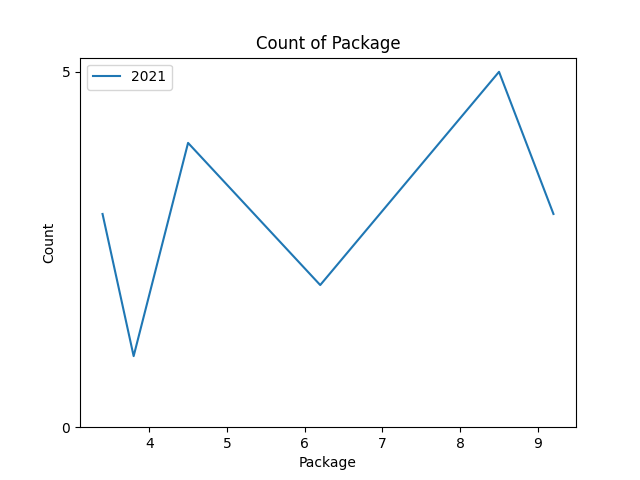
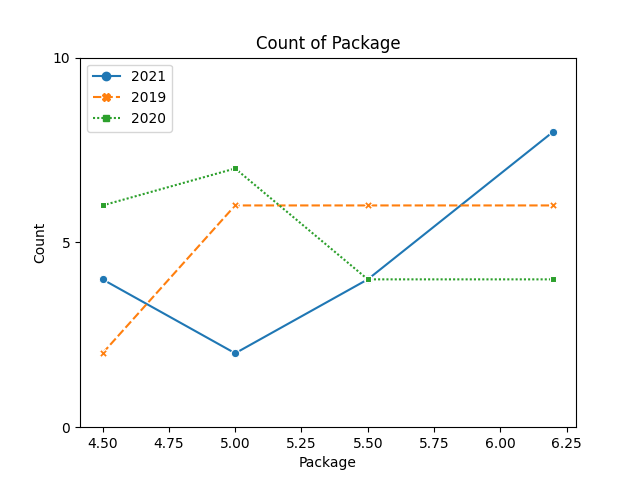
changed color variations seaborn

diff --git a/institute_analysis.py b/institute_analysis.py
@@ -69,7 +69,7 @@ class InstituteAnalysis(Screen):
         for i in my_cursor:
             dat.append([branch[i[0]],i[1]])
         df=pd.DataFrame(dat,columns=['branch','year'])
-        sns.countplot(x=df['branch'],hue=df['year'])
+        sns.countplot(x=df['branch'],hue=df['year'],palette='coolwarm')
         # plt.show()
         plt.savefig("Graphs//inst_1.png")
         plt.close('all')
@@ -120,11 +120,11 @@ class InstituteAnalysis(Screen):
             dat.append([i[0],i[1],branch[i[2]]])
         df=pd.DataFrame(dat,columns=['package','count','branch'])
 
-        sns.lineplot(x='package',y='count',hue = 'branch',data=df)
+        sns.lineplot(x='package',y='count',hue = 'branch',data=df,markers=True,style='branch')
         plt.title("Count of Package")
         plt.yticks(np.arange(max(df['count'])+5,step=5))
         plt.xlabel("Package")
-        plt.ylabel("Count")
+        plt.ylabel("Branch")
         plt.legend()
         # plt.show()
         plt.savefig("Graphs//inst_3.png")

diff --git a/department_analysis.py b/department_analysis.py
@@ -130,7 +130,7 @@ class DepartmentAnalysis(Screen):
         for i in data:
             dat.append([i[0],i[1]])
         df=pd.DataFrame(dat,columns=['company','year'])
-        sns.countplot(x=df['company'],hue=df['year'])
+        sns.countplot(x=df['company'],hue=df['year'],palette='coolwarm')
         plt.title("Offer Letters by companies")
         plt.xlabel("Companies")
         plt.ylabel("Number of offer letters")
@@ -151,7 +151,7 @@ class DepartmentAnalysis(Screen):
                 dat.append([i[0],i[1],i[2]])
         df=pd.DataFrame(dat,columns=['package','count','year'])
 
-        sns.lineplot(x='package',y='count',hue = 'year',data=df)
+        sns.lineplot(x='package',y='count',hue = 'year',data=df,markers=True,style='year')
         plt.title("Count of Package")
         plt.yticks(np.arange(max(df['count'])+5,step=5))
         plt.xlabel("Package")
